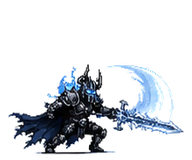
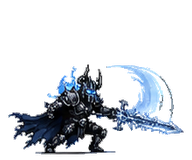
修复：平滑敌人序列帧采样

diff --git a/Scripts/Editor/TurnBasedSkillFrameworkTests.cs b/Scripts/Editor/TurnBasedSkillFrameworkTests.cs
@@ -113,5 +113,30 @@ namespace WitcherGame.Tests
                 Assert.IsFalse(rowRect.Overlaps(enemyRect), $"Enemy weakness row {i + 1} should not cover the monster sprite.");
             }
         }
+
+        [Test]
+        public void EnemyAnimation_BlackMoonKnightFolderFrames_UseBilinearFiltering()
+        {
+            TurnBasedEnemyState enemy = new TurnBasedEnemyState();
+
+            TurnBasedEnemyAnimationLibrary.FillAnimations(enemy, TurnBasedEnemyVisualKind.BlackMoonKnight);
+
+            Assert.NotNull(enemy.IdleFrames);
+            Assert.Greater(enemy.IdleFrames.Length, 0);
+            Assert.AreEqual(FilterMode.Bilinear, enemy.IdleFrames[0].texture.filterMode);
+        }
+
+        [TestCase(TurnBasedEnemyVisualKind.CorruptedWolf)]
+        [TestCase(TurnBasedEnemyVisualKind.BloodWraith)]
+        public void EnemyAnimation_SheetFrames_UseBilinearFiltering(TurnBasedEnemyVisualKind visualKind)
+        {
+            TurnBasedEnemyState enemy = new TurnBasedEnemyState();
+
+            TurnBasedEnemyAnimationLibrary.FillAnimations(enemy, visualKind);
+
+            Assert.NotNull(enemy.IdleFrames);
+            Assert.Greater(enemy.IdleFrames.Length, 0);
+            Assert.AreEqual(FilterMode.Bilinear, enemy.IdleFrames[0].texture.filterMode);
+        }
     }
 }

diff --git a/Scripts/TurnBased/TurnBasedEnemyAnimationLibrary.cs b/Scripts/TurnBased/TurnBasedEnemyAnimationLibrary.cs
@@ -118,6 +118,7 @@ namespace WitcherGame
                     continue;
                 }
 
+                // Folder-loaded frames are scaled in the HUD, so keep them smoothed.
                 texture.filterMode = FilterMode.Bilinear;
                 texture.wrapMode = TextureWrapMode.Clamp;
                 Sprite sprite = Sprite.Create(
